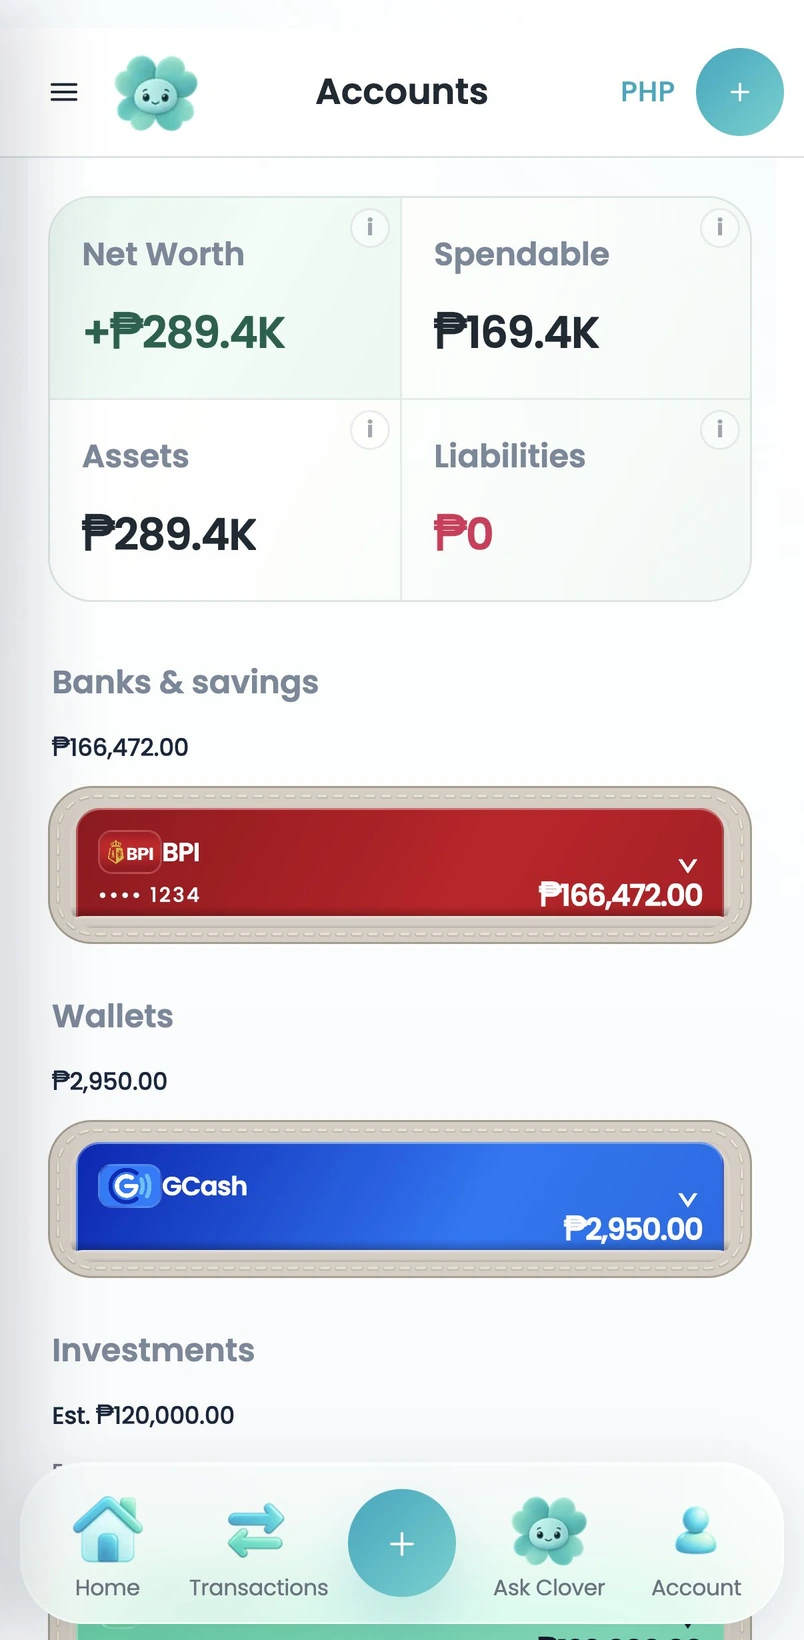
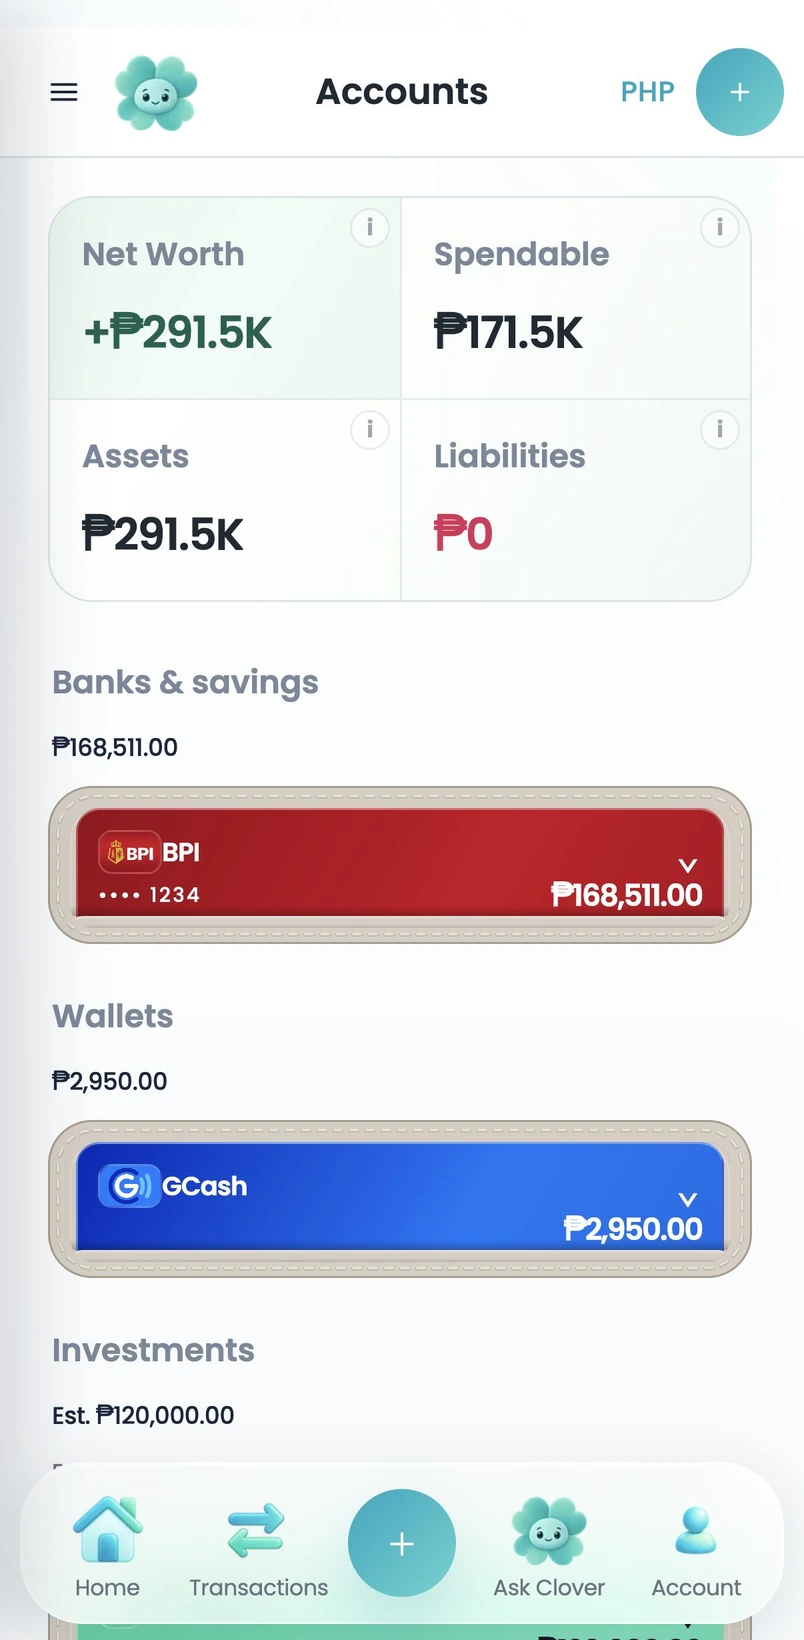
Align HD screenshot samples with the receipt story

diff --git a/assets/landing-showcase/README.md b/assets/landing-showcase/README.md
@@ -55,3 +55,9 @@ scrollbar chrome. No harness or authentication stub is shipped with Clover.
 The showcase serves at least the 804-pixel source (about 73 KB for Accounts),
 with `srcSet` selecting the 1206-pixel source for higher pixel densities. The
 high-resolution source is retained for large and Retina displays.
+
+The final fictional transaction fixture keeps Starbucks at PHP 190 on
+5 October 2026 in BPI, matching the receipt and moving transaction in the
+scroll narrative. Jollibee, Puregold and McDonald's samples also match the
+illustrative purchase props. All logos and interface icons were checked before
+capture.
